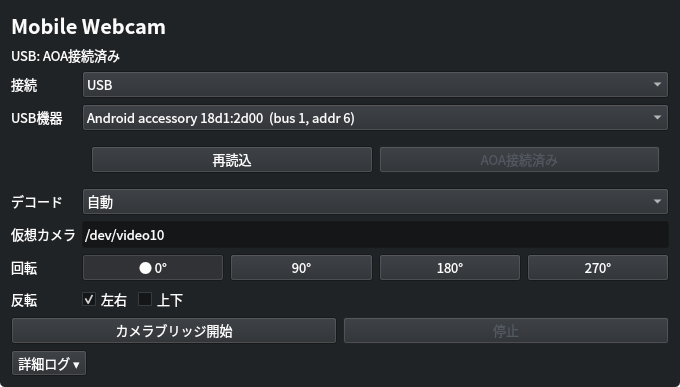
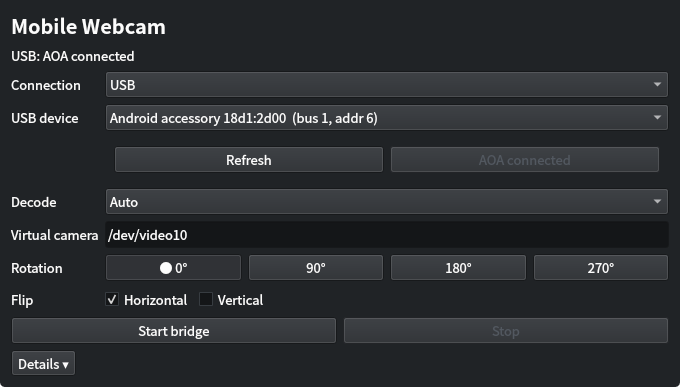
Show English UI screenshot and document languages

diff --git a/README.md b/README.md
@@ -8,6 +8,9 @@ Use an Android phone as a Linux webcam over USB or local Wi-Fi. The Linux side
 outputs a normal V4L2 camera such as `/dev/video10`, so camera applications do
 not need a Mobile Webcam plugin.
 
+**Languages:** English and Japanese. The app follows the system language and
+uses English when no Japanese locale is selected.
+
 ## What it does
 
 - Streams Android Camera2 video through MediaCodec H.264.
